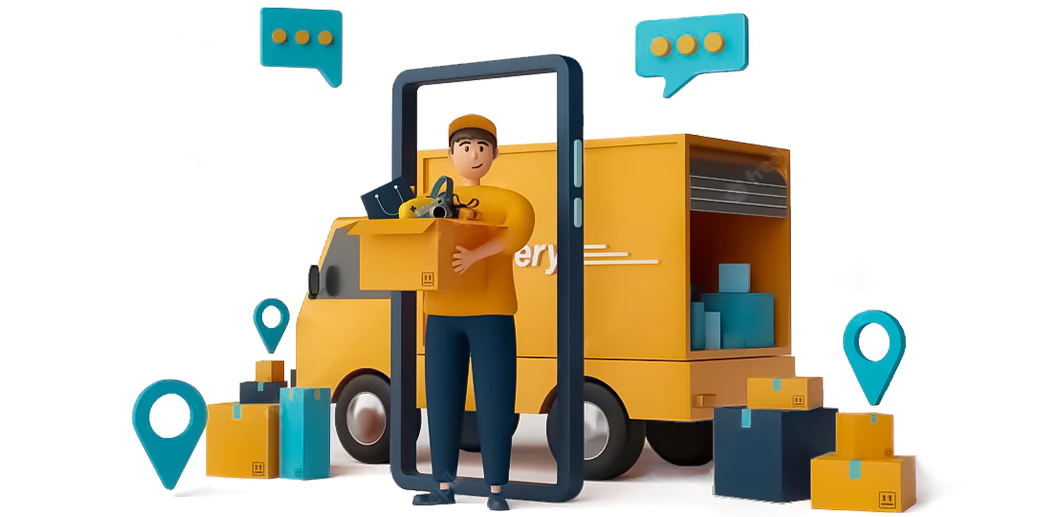
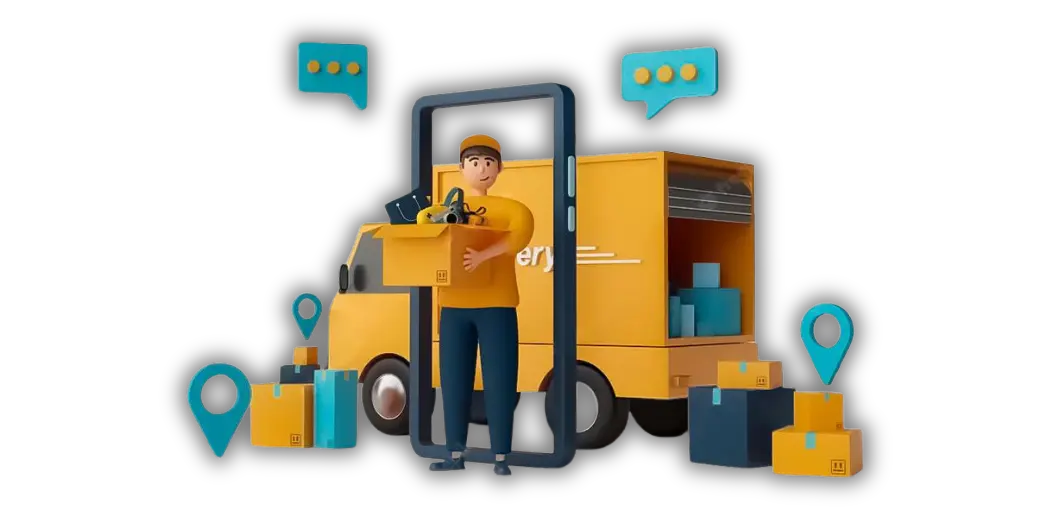
cambios en el slider

diff --git a/faq.html b/faq.html
@@ -1,23 +1,24 @@
 <!DOCTYPE html>
 <html lang="es">
 	<head>
+		<meta name="lang" content="es" />
 		<meta charset="utf-8" />
 		<meta
 			name="viewport"
 			content="width=device-width, initial-scale=1, shrink-to-fit=no" />
+		<meta name="geo.placename" content="Asunción, Paraguay" />
+
 		<!-- Meta tags -->
 		<!-- Primary Meta Tags -->
-		<title>FAQ | Distribuidora Maravilla</title>
-		<meta
-			name="title"
-			content="Distribuidora  - Maravilla - Aceite Comestible" />
+		<title>Distribuidora Maravilla | Preguntas Frecuentes</title>
 		<meta
 			name="description"
-			content="Proveedor Mayorista de Alimentos Aceites Comestibles Soja a Granel!" />
+			content="Distribuidora Maravilla: Mayorista de productos de limpieza en Asunción, Paraguay. Descubre nuestra variedad de productos de limpieza al por mayor, desde detergentes hasta soluciones especializadas. Calidad y servicio excepcionales para mantener tus espacios impecables. ¡Realiza tu pedido hoy y disfruta de envíos a Asunción y alrededores!" />
+
 		<meta name="robots" content="index, follow" />
 		<meta
 			name="keywords"
-			content="aceite suelto, girasol, don roberto, aceite para fritura, vicentin, cocamar, alzamar" />
+			content="productos de limpieza, mayorista, detergentes, soluciones de limpieza, Asunción, Paraguay" />
 		<meta name="author" content="Denis Cantero" />
 		<meta name="copyright" content="https://webpy.xyz" />
 		<meta name="robots" content="index" />
@@ -28,28 +29,67 @@
 		<meta property="og:url" content="https://distrimaravilla.store" />
 		<meta
 			property="og:title"
-			content="Distribuidora  - Maravilla - Aceite Comestible" />
+			content="Distribuidora Maravilla - Mayorista de Productos de Limpieza en Asunción, Paraguay" />
 		<meta
 			property="og:description"
-			content="Proveedor Mayorista de Alimentos Aceites Comestibles Soja a Granel!" />
-		<meta property="og:image" content="assets/img/logo_maravilla.png" />
+			content="Distribuidora Maravilla: Mayorista de productos de limpieza en Asunción, Paraguay. Descubre nuestra variedad de productos de limpieza al por mayor, desde detergentes hasta soluciones especializadas. Calidad y servicio excepcionales para mantener tus espacios impecables. ¡Realiza tu pedido hoy y disfruta de envíos a Asunción y alrededores!" />
+		<meta property="og:image" content="assets/img/ogefacebook.webp" />
 
 		<!-- Twitter -->
 		<meta property="twitter:card" content="summary_large_image" />
 		<meta property="twitter:url" content="https://distrimaravilla.store" />
+		<meta property="twitter:image" content="assets/img/ogefacebook.webp" />
+
 		<meta
 			property="twitter:title"
-			content="Distribuidora  - Maravilla - Aceite Comestible" />
+			content="Distribuidora Maravilla - Mayorista de Productos de Limpieza en Asunción, Paraguay" />
 		<meta
 			property="twitter:description"
-			content="Proveedor Mayorista de Alimentos Aceites Comestibles Soja a Granel!" />
-		<meta property="twitter:image" content="assets/img/logo_maravilla.png" />
+			content="Distribuidora Maravilla: Mayorista de productos de limpieza en Asunción, Paraguay. Descubre nuestra variedad de productos de limpieza al por mayor, desde detergentes hasta soluciones especializadas. Calidad y servicio excepcionales para mantener tus espacios impecables. ¡Realiza tu pedido hoy y disfruta de envíos a Asunción y alrededores!" />
+		<meta property="twitter:image" content="assets/img/ogefacebook.webp" />
 
 		<!-- Favicon -->
 		<link
 			rel="apple-touch-icon"
+			sizes="57x57"
+			href="favicon/apple-icon-57x57.png" />
+		<link
+			rel="apple-touch-icon"
+			sizes="60x60"
+			href="favicon/apple-icon-60x60.png" />
+		<link
+			rel="apple-touch-icon"
+			sizes="72x72"
+			href="favicon/apple-icon-72x72.png" />
+		<link
+			rel="apple-touch-icon"
+			sizes="76x76"
+			href="favicon/apple-icon-76x76.png" />
+		<link
+			rel="apple-touch-icon"
+			sizes="114x114"
+			href="favicon/apple-icon-114x114.png" />
+		<link
+			rel="apple-touch-icon"
+			sizes="120x120"
+			href="favicon/apple-icon-120x120.png" />
+		<link
+			rel="apple-touch-icon"
+			sizes="144x144"
+			href="favicon/apple-icon-144x144.png" />
+		<link
+			rel="apple-touch-icon"
+			sizes="152x152"
+			href="favicon/apple-icon-152x152.png" />
+		<link
+			rel="apple-touch-icon"
 			sizes="180x180"
-			href="favicon/apple-touch-icon.png" />
+			href="favicon/apple-icon-180x180.png" />
+		<link
+			rel="icon"
+			type="image/png"
+			sizes="192x192"
+			href="favicon/android-icon-192x192.png" />
 		<link
 			rel="icon"
 			type="image/png"
@@ -58,16 +98,18 @@
 		<link
 			rel="icon"
 			type="image/png"
+			sizes="96x96"
+			href="favicon/favicon-96x96.png" />
+		<link
+			rel="icon"
+			type="image/png"
 			sizes="16x16"
 			href="favicon/favicon-16x16.png" />
-		<link rel="manifest" href="favicon/site.webmanifest" />
-		<link
-			rel="mask-icon"
-			href="favicon/safari-pinned-tab.svg"
-			color="#5bbad5" />
-		<link rel="shortcut icon" href="favicon/favicon.ico" />
-		<meta name="msapplication-TileColor" content="#da532c" />
-		<meta name="msapplication-config" content="favicon/browserconfig.xml" />
+		<link rel="manifest" href="favicon/manifest.json" />
+		<meta name="msapplication-TileColor" content="#ffffff" />
+		<meta
+			name="msapplication-TileImage"
+			content="favicon/ms-icon-144x144.png" />
 		<meta name="theme-color" content="#ffffff" />
 
 		<!-- Core theme CSS -->
@@ -77,6 +119,28 @@
 			href="https://cdn.jsdelivr.net/npm/swiper@11/swiper-bundle.min.css" />
 		<script src="https://cdn.jsdelivr.net/npm/swiper@11/swiper-bundle.min.js"></script>
 		<script src="https://cdn.tailwindcss.com"></script>
+
+		<!-- Core theme CSS-->
+		<!-- shema -->
+		<script type="application/ld+json">
+			{
+				"@context": "https://schema.org",
+				"@type": "Organization",
+				"name": "Distribuidora Maravilla",
+				"url": "https://distrimaravilla.store",
+				"logo": "assets/img/logos/SVG/sin.svg",
+				"contactPoint": {
+					"@type": "ContactPoint",
+					"telephone": "(0986) 550-235",
+					"contactType": "customer service",
+					"areaServed": "PY"
+				},
+				"sameAs": [
+					"https://www.facebook.com/distrimaravilla",
+					"https://www.instagram.com/distrimaravilla"
+				]
+			}
+		</script>
 	</head>
 
 	<body class="font-sans bg-gray-800">
@@ -87,15 +151,17 @@
 				<a href="/" class="flex items-center text-2xl font-bold mt-4">
 					<img
 						src="assets\img\logos\SVG\sin.svg"
-						alt="Logo"
+						alt="Logo Distribuidora Maravilla"
 						class="h-10 w-auto" />
 				</a>
 				<!-- Enlaces de navegación -->
 				<div class="hidden sm:flex space-x-4">
-					<a href="#" class="hover:text-amber-500">Inicio</a>
-					<a href="/producto" class="hover:text-amber-500">Productos</a>
-					<a href="#" class="hover:text-amber-500">Contacto</a>
+					<a href="/" class="hover:text-amber-500">Inicio</a>
+					<a href="/productos" class="hover:text-amber-500">Productos</a>
+					<a href="/contacto" class="hover:text-amber-500">Contacto</a>
+					<a href="/faq" class="hover:text-amber-500">Preguntas Frecuentes</a>
 				</div>
+
 				<!-- Menú desplegable para dispositivos móviles -->
 				<div class="sm:hidden">
 					<button id="menu-toggle" class="text-white focus:outline-none">
@@ -114,14 +180,18 @@
 					</button>
 				</div>
 			</div>
+
 			<!-- Menú desplegable para dispositivos móviles -->
 			<div id="mobile-menu" class="hidden sm:hidden mt-2">
-				<a href="#" class="block px-4 py-2 text-sm hover:bg-gray-200">Inicio</a>
-				<a href="/producto" class="block px-4 py-2 text-sm hover:bg-gray-200"
+				<a href="/" class="block px-4 py-2 text-sm hover:bg-gray-200">Inicio</a>
+				<a href="/productos" class="block px-4 py-2 text-sm hover:bg-gray-200"
 					>Productos</a
 				>
-				<a href="#" class="block px-4 py-2 text-sm hover:bg-gray-200"
+				<a href="/contacto" class="block px-4 py-2 text-sm hover:bg-gray-200"
 					>Contacto</a
+				>
+				<a href="/faq" class="block px-4 py-2 text-sm hover:bg-gray-200"
+					>Preguntas Frecuentes</a
 				>
 			</div>
 		</nav>

diff --git a/index.html b/index.html
@@ -210,13 +210,13 @@
 					<div
 						class="swiper-slide bg-gradient-to-r from-purple-700 to-cyan-500 text-white flex items-center justify-center">
 						<p class="text-4xl font-bold">
-							<img src="assets\img\slider\slider1-montana-sadia.jpg" alt="" />
+							<img src="assets\img\slider\slider1.webp" alt="" />
 						</p>
 					</div>
 					<div
 						class="swiper-slide bg-gradient-to-r from-purple-700 to-cyan-500 text-white flex items-center justify-center">
 						<p class="text-4xl font-bold">
-							<img src="assets\img\slider\slider2-montana-sadia.jpg" alt="" />
+							<img src="assets\img\slider\slider2.webp" alt="" />
 						</p>
 					</div>
 				</div>
@@ -262,7 +262,7 @@
 				<!-- Imagen a la Derecha -->
 				<div class="mt-6 lg:mt-0 lg:w-1/2">
 					<img
-						src="assets\img\COMBO5X5.png"
+						src="assets\img\COMBO5X5.webp"
 						alt="Combo de productos de limpieza"
 						class="rounded-lg" />
 				</div>
@@ -278,7 +278,7 @@
 				<!-- Imagen a la Izquierda -->
 				<div class="mt-6 lg:mt-0 lg:w-1/2">
 					<img
-						src="assets\img\entrega.png"
+						src="assets\img\entrega.webp"
 						alt="Imagend un camion haciendo entrega"
 						class="rounded-lg" />
 				</div>

diff --git a/contacto.html b/contacto.html
@@ -197,23 +197,6 @@
 		</nav>
 
 		<!-- Contenido -->
-		<!-- Sección de Agradecimiento centrada -->
-		<!-- Sección de Agradecimiento que ocupa toda la pantalla -->
-		<section
-			class="bg-gray-900 p-8 rounded-lg text-center h-screen flex flex-col justify-center">
-			<h1 class="text-3xl font-bold mb-4 text-amber-500">
-				¡Gracias por tu Pedido! 🌟
-			</h1>
-			<p class="text-lg mb-4 text-white">
-				Tu pedido ha sido recibido y será procesado pronto. Apreciamos tu
-				preferencia. 🚀
-			</p>
-			<p class="text-lg text-white">
-				Para cualquier pregunta o seguimiento, no dudes en ponerte en contacto
-				con nosotros. 📞✉
-			</p>
-		</section>
-
 		<!-- Contenido -->
 
 		<!-- Footer -->

diff --git a/layout.html b/layout.html
@@ -197,23 +197,6 @@
 		</nav>
 
 		<!-- Contenido -->
-		<!-- Sección de Agradecimiento centrada -->
-		<!-- Sección de Agradecimiento que ocupa toda la pantalla -->
-		<section
-			class="bg-gray-900 p-8 rounded-lg text-center h-screen flex flex-col justify-center">
-			<h1 class="text-3xl font-bold mb-4 text-amber-500">
-				¡Gracias por tu Pedido! 🌟
-			</h1>
-			<p class="text-lg mb-4 text-white">
-				Tu pedido ha sido recibido y será procesado pronto. Apreciamos tu
-				preferencia. 🚀
-			</p>
-			<p class="text-lg text-white">
-				Para cualquier pregunta o seguimiento, no dudes en ponerte en contacto
-				con nosotros. 📞✉
-			</p>
-		</section>
-
 		<!-- Contenido -->
 
 		<!-- Footer -->

diff --git a/nosotros.html b/nosotros.html
@@ -197,23 +197,6 @@
 		</nav>
 
 		<!-- Contenido -->
-		<!-- Sección de Agradecimiento centrada -->
-		<!-- Sección de Agradecimiento que ocupa toda la pantalla -->
-		<section
-			class="bg-gray-900 p-8 rounded-lg text-center h-screen flex flex-col justify-center">
-			<h1 class="text-3xl font-bold mb-4 text-amber-500">
-				¡Gracias por tu Pedido! 🌟
-			</h1>
-			<p class="text-lg mb-4 text-white">
-				Tu pedido ha sido recibido y será procesado pronto. Apreciamos tu
-				preferencia. 🚀
-			</p>
-			<p class="text-lg text-white">
-				Para cualquier pregunta o seguimiento, no dudes en ponerte en contacto
-				con nosotros. 📞✉
-			</p>
-		</section>
-
 		<!-- Contenido -->
 
 		<!-- Footer -->

diff --git a/productos.html b/productos.html
@@ -197,23 +197,6 @@
 		</nav>
 
 		<!-- Contenido -->
-		<!-- Sección de Agradecimiento centrada -->
-		<!-- Sección de Agradecimiento que ocupa toda la pantalla -->
-		<section
-			class="bg-gray-900 p-8 rounded-lg text-center h-screen flex flex-col justify-center">
-			<h1 class="text-3xl font-bold mb-4 text-amber-500">
-				¡Gracias por tu Pedido! 🌟
-			</h1>
-			<p class="text-lg mb-4 text-white">
-				Tu pedido ha sido recibido y será procesado pronto. Apreciamos tu
-				preferencia. 🚀
-			</p>
-			<p class="text-lg text-white">
-				Para cualquier pregunta o seguimiento, no dudes en ponerte en contacto
-				con nosotros. 📞✉
-			</p>
-		</section>
-
 		<!-- Contenido -->
 
 		<!-- Footer -->
